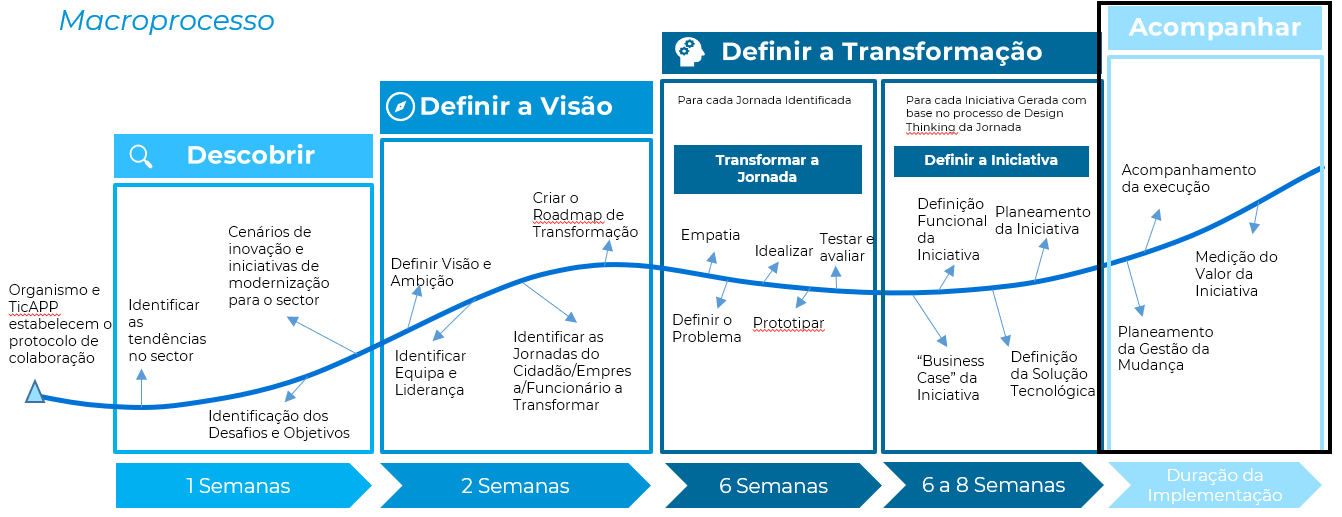
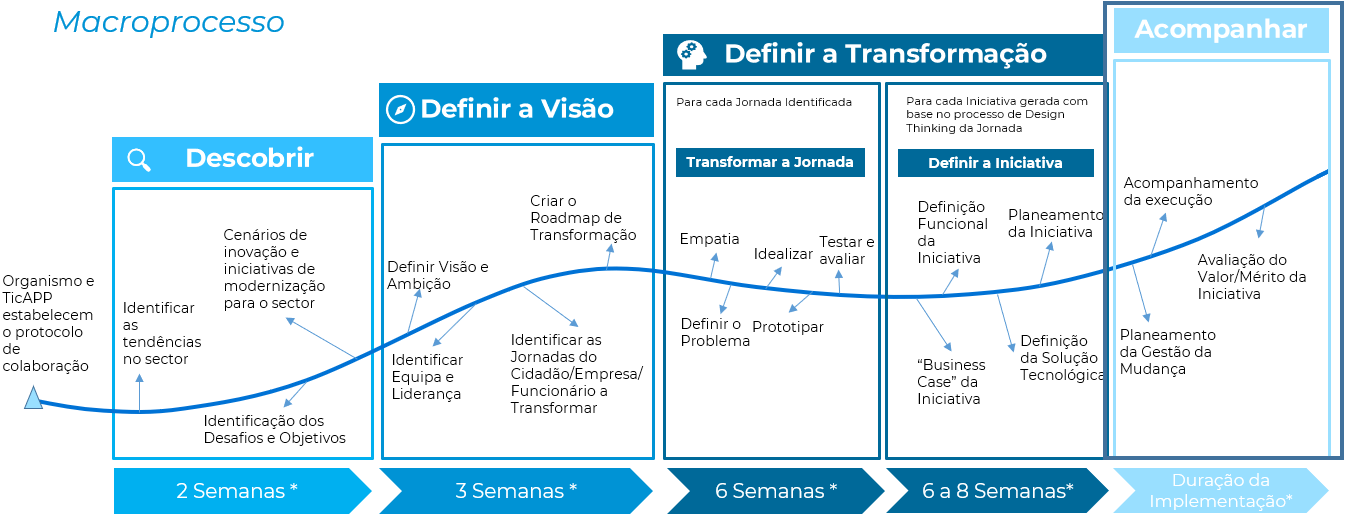
Update 0-Descobrir.md

diff --git a/3-Acompanhamento.md b/3-Acompanhamento.md
@@ -1,6 +1,6 @@
 # 3. Transformar a Jornada
 
-![Acompanhamento](images/acompanhamento_processo2.png)
+![Acompanhamento](images/acompanhamento_processo.png)
 
 ## Descrição
 Com o objetivo de apoiar as entidades públicas a executar as iniciativas, definidas com a sua intervenção, o TicAPP promove a necessidade de acompanhamento da execução do programa de transformação e das iniciativas que dele constam. Pensamos que se trata de uma boa prática, a qual deve ser seguida nos projetos de transformação da Administração Pública. Esta atividade deve abordar temas como a gestão do plano de execução, a gestão de riscos, a avaliação da adesão à arquitetura de sistemas de informaç~so definida e boas práticas aplicáveis; apresentando recomendações a aplicar que permitam efetivar a transformação pretendida.

diff --git a/2.1-TransformaraJornada-Prototipar.md b/2.1-TransformaraJornada-Prototipar.md
@@ -20,6 +20,7 @@ Identifica o variável. Define bem o que será testado com cada protótipo. O pr
 Constrói com o utilizador em mente. O que pretende testar com o utilizador? Que género de comportamento espera ver? Responder  estas perguntas irá ajudar-lhe a focar o seu protótipo em ajudar-lhe a receber comentários úteis durante a fase de testes.
 	
 ## Ferramentas habitualmente usadas nesta fase:
-	• Papel e lápis/caneta
-	• Design de interfaces
-	• Design Espacial
+* 	Papel e lápis/caneta
+* 	Design de interfaces
+* 	Design Espacial
+ 

diff --git a/0-Descobrir.md b/0-Descobrir.md
@@ -27,9 +27,9 @@ A identificação de desafios, de tendências, de cenários de inovação e das 
 * Especialista UX 
 
 ## Exemplos
-![tendencias](images/tendencias.png)
+![Descobrir Tendências, Desafios e Prioridades](images/tendencias2.png)
 
-![](images/cenario_inovacao.png)
+![Cenários de Inovação para a Área Governativa](images/cenarios_inovacao2.png)
 
 ![](images/rodape.png)
 

diff --git a/2.2-DefinirIniciativa.md b/2.2-DefinirIniciativa.md
@@ -1,6 +1,6 @@
 # 2.2 Definir Iniciatia
 
-![Definir a Iniciativa](images/definir_iniciativa_processo.png)
+![Definir Iniciativa](images/definir_iniciativa_processo.png)
 
 ## Descrição
 ![definir iniciativa](images/definiir_iniciativa.png)

diff --git a/2-Transformar.md b/2-Transformar.md
@@ -1,6 +1,6 @@
-# 2. Transformar
+# 2. Definir a Transformação
 
-![Transformar](images/transformar_processo.png)
+![Definir a Transformação](images/transformar_processo.png)
 
 ## Descrição
 
